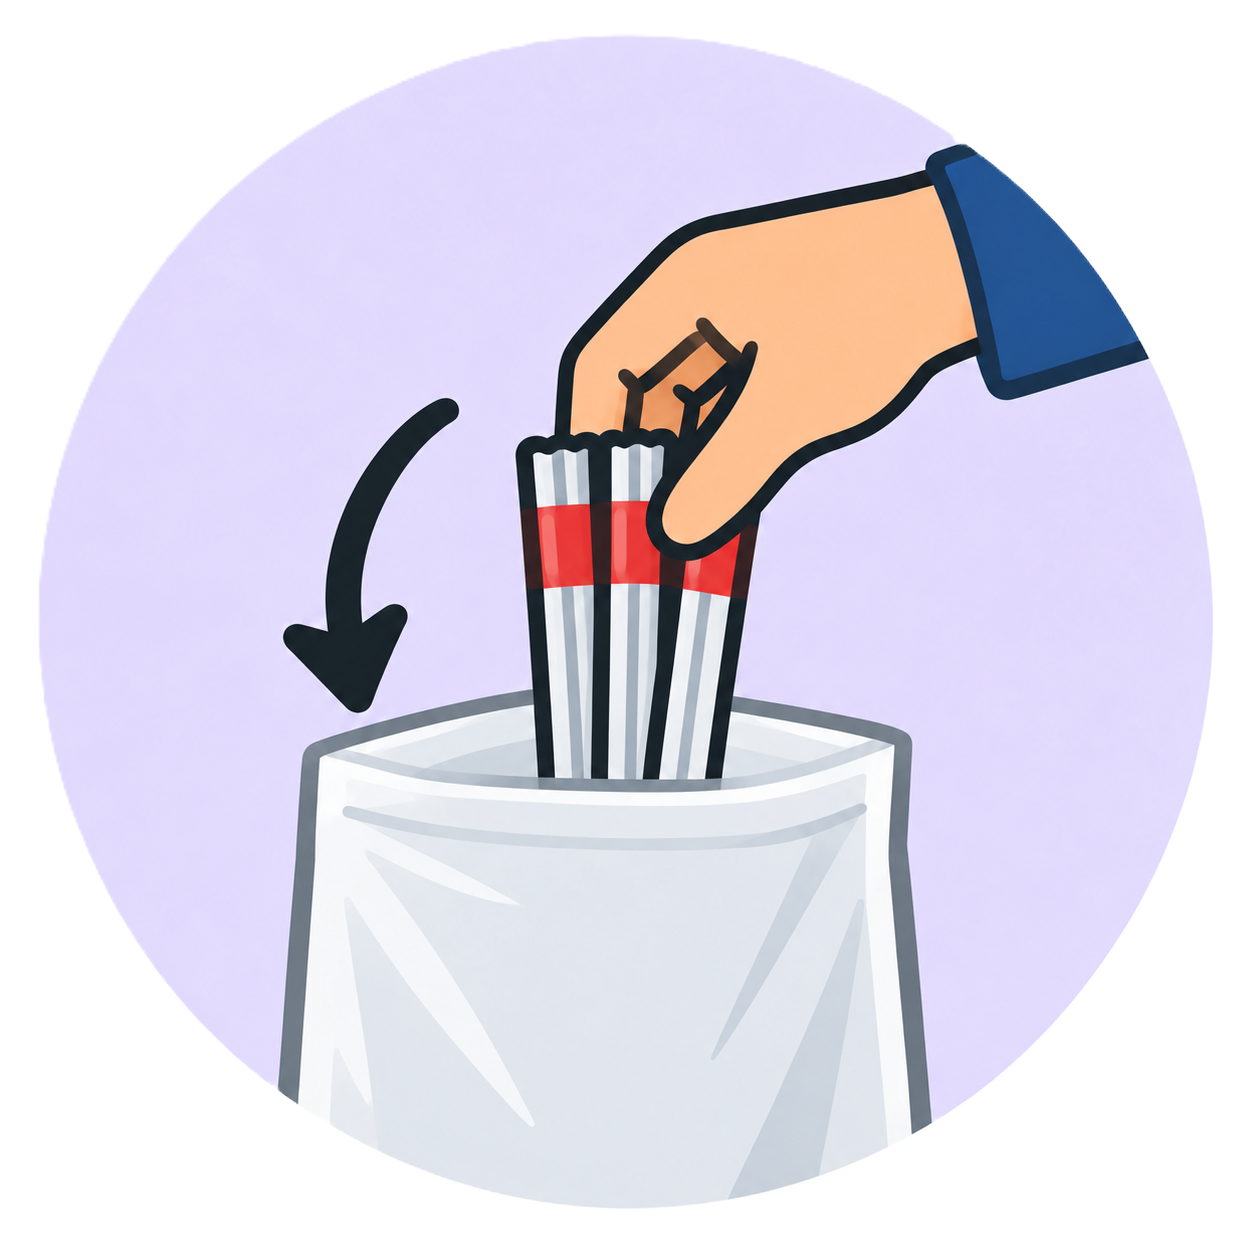
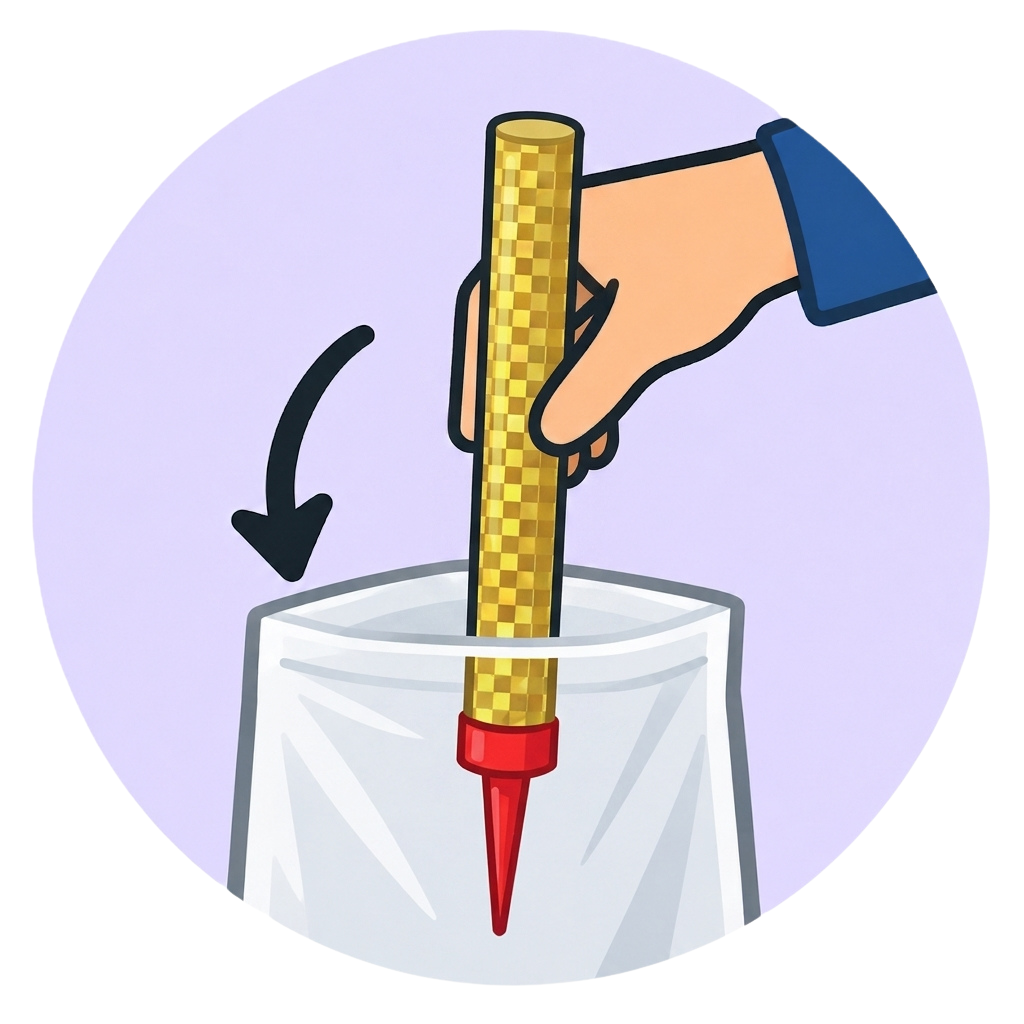
App version 2026

Changed region(s): [[0.4062, 0.0938, 0.625, 0.9375]]

diff --git a/Armado/Cont.js b/Armado/Cont.js
@@ -32,7 +32,7 @@ export default function Cont({ navigation }) {
   // Los insumos son Bolsas y Cartón; el último elemento es el producto final
   const [productos, setProductos] = useState([
     { id: 1, imagen: require("../assets/bolsaCelofan.png"), nombre: 'BOLSA', cantidad: 0, seleccionado: false },
-    { id: 2, imagen: require("../assets/Carton.jpg"), nombre: 'CARTON', cantidad: 0, seleccionado: false },
+    { id: 2, imagen: require("../assets/cartonBengalas.png"), nombre: 'CARTON', cantidad: 0, seleccionado: false },
     { id: 3, imagen: require("../assets/bengalaindividual.png"), nombre: 'BENGALA', cantidad: 0, seleccionado: false },
   ]);
 
@@ -222,7 +222,7 @@ export default function Cont({ navigation }) {
                   </View>
                 </View>
                 <TouchableOpacity activeOpacity={0.8} onPress={() => setImagenAmpliada(require("../assets/paso_4.png"))}>
-                  <Image source={require("../assets/paso_4.png")} style={styles.imagen} />
+                  <Image source={require("../assets/paso_3.png")} style={styles.imagen} />
                 </TouchableOpacity>
               </View>
             </View>
@@ -237,7 +237,7 @@ export default function Cont({ navigation }) {
                   </View>
                 </View>
                 <TouchableOpacity activeOpacity={0.8} onPress={() => setImagenAmpliada(require("../assets/paso_3.png"))}>
-                  <Image source={require("../assets/paso_3.png")} style={styles.imagen} />
+                  <Image source={require("../assets/paso_4.png")} style={styles.imagen} />
                 </TouchableOpacity>
               </View>
             </View>

diff --git a/App.js b/App.js
@@ -20,7 +20,6 @@ import Splash from "./Splash";
 import Panel from "./Panel";
 import RedAdmin from "./RedAdmin";
 import RedUser from "./RedUser";
-import CameraScreen from "./CameraScreen";
 
 //Armado
 import Productos from "./Armado/Productos";
@@ -160,7 +159,7 @@ const AppContenido = () => {
     {
       id: 1,
       nombre: "BENGALAS",
-      imagen: require("./assets/bengala.jpg"),
+      imagen: require("./assets/bengalaindividual.png"),
       agregado: true,
     },
     {
@@ -288,7 +287,7 @@ const AppContenido = () => {
         <Stack.Screen name="RedUser" component={RedUser} />
         <Stack.Screen name="Login" component={Login} />
         <Stack.Screen name="Perfil" component={Perfil} />
-        <Stack.Screen name="CameraScreen" component={CameraScreen} />
+        
 
         <Stack.Screen name="Cont" component={Cont} />
         <Stack.Screen name="ContVasos" component={ContVasos}/>

diff --git a/Armado/ContVasosPapel.js b/Armado/ContVasosPapel.js
@@ -62,7 +62,7 @@ export default function ContVasos({ navigation }) {
       return;
     }
     navigation.navigate('Fallas', {
-      productos: 'Vasos Papel',
+      productos: 'VASOS PAPEL',
       productosSeleccionados: insumos,
       totalProduccion: productoFinal.cantidad,
     });

diff --git a/Armado/ContVasos.js b/Armado/ContVasos.js
@@ -62,7 +62,7 @@ export default function ContVasos({ navigation }) {
       return;
     }
     navigation.navigate('Fallas', {
-      productos: 'Vasos',
+      productos: 'VASOS',
       productosSeleccionados: insumos,
       totalProduccion: productoFinal.cantidad,
     });

diff --git a/RegistroOperario.js b/RegistroOperario.js
@@ -446,7 +446,7 @@ const styles = StyleSheet.create({
   /* Lista */
   lista: {
     paddingHorizontal: 16,
-    paddingBottom: 20,
+    paddingBottom: 140, // espacio para que el último registro quede por encima del menú
   },
   card: {
     backgroundColor: "white",

diff --git a/RegistroSupervisor.js b/RegistroSupervisor.js
@@ -512,7 +512,7 @@ const styles = StyleSheet.create({
   /* Lista */
   lista: {
     paddingHorizontal: 16,
-    paddingBottom: 20,
+    paddingBottom: 140, // espacio para que el último registro quede por encima del menú
   },
   card: {
     backgroundColor: "white",
